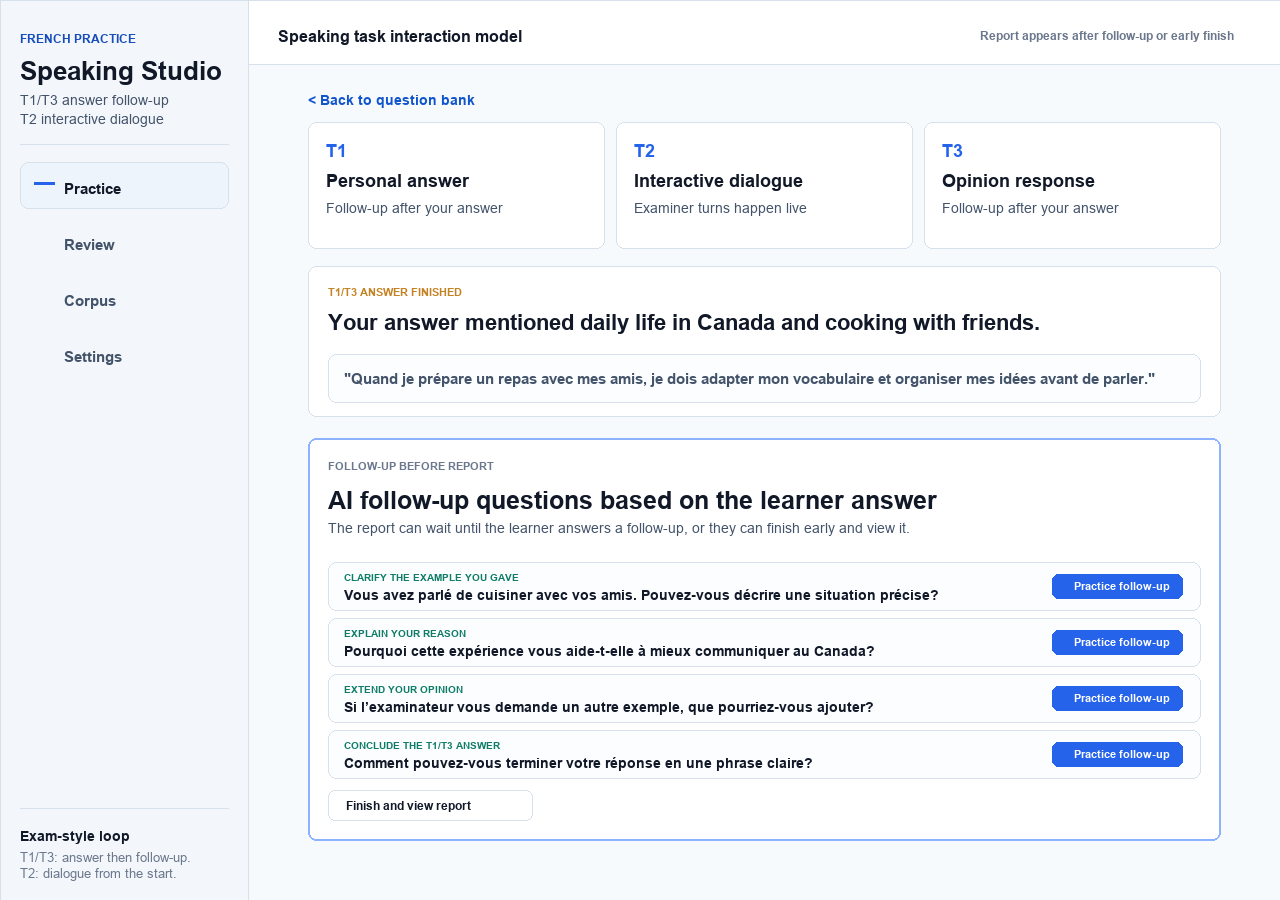
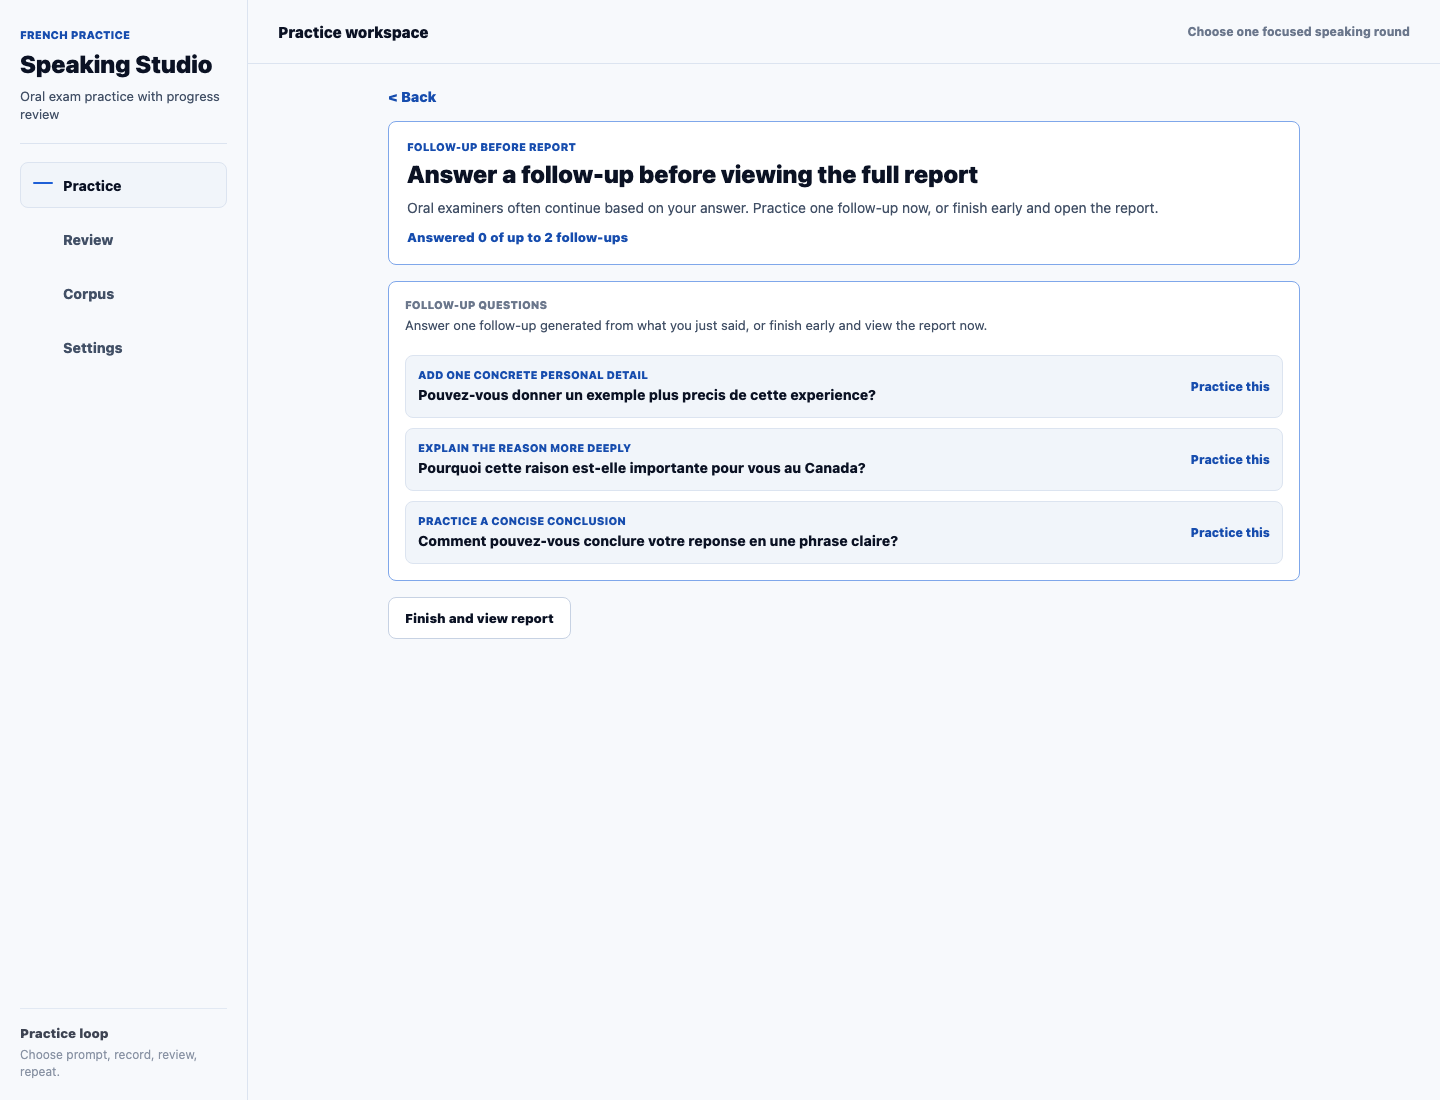
docs: show timed follow-up product flow

diff --git a/index.html b/index.html
@@ -165,6 +165,22 @@
             </div>
           </article>
           <article>
+            <img src="assets/follow-up-recording.png" alt="Real product screen showing a timed T1 follow-up answer with a 30 second limit" />
+            <div>
+              <span data-i18n="evidence.timedLabel">Timed follow-up</span>
+              <h3 data-i18n="evidence.timedTitle">Short follow-up answers keep the exam rhythm.</h3>
+              <p data-i18n="evidence.timedText">T1 follow-ups use 30 seconds and T3 follow-ups use 45 seconds, so practice stays close to real oral-exam pacing.</p>
+            </div>
+          </article>
+          <article>
+            <img src="assets/final-composite-report.png" alt="Real product screen showing the composite report after the follow-up gate" />
+            <div>
+              <span data-i18n="evidence.reportLabel">Composite report</span>
+              <h3 data-i18n="evidence.reportTitle">The report appears after the follow-up sequence.</h3>
+              <p data-i18n="evidence.reportText">The final report combines the main answer and practiced follow-ups, while still allowing optional extra follow-up practice.</p>
+            </div>
+          </article>
+          <article>
             <img src="assets/product-saved-examples.png" alt="Real product screen showing reusable speaking examples panel" />
             <div>
               <span data-i18n="evidence.savedLabel">Saved examples</span>
@@ -300,6 +316,12 @@
           "evidence.aiLabel": "AI interaction",
           "evidence.aiTitle": "T1/T3 follow-ups and T2 interactive dialogue.",
           "evidence.aiText": "After T1 or T3, the app can ask examiner-style follow-up questions based on the learner's own answer. T2 is already a multi-turn examiner dialogue.",
+          "evidence.timedLabel": "Timed follow-up",
+          "evidence.timedTitle": "Short follow-up answers keep the exam rhythm.",
+          "evidence.timedText": "T1 follow-ups use 30 seconds and T3 follow-ups use 45 seconds, so practice stays close to real oral-exam pacing.",
+          "evidence.reportLabel": "Composite report",
+          "evidence.reportTitle": "The report appears after the follow-up sequence.",
+          "evidence.reportText": "The final report combines the main answer and practiced follow-ups, while still allowing optional extra follow-up practice.",
           "evidence.savedLabel": "Saved examples",
           "evidence.savedTitle": "Reusable examples stay beside the speaking prompt.",
           "evidence.savedText": "Learners can save useful personal examples and adapt them to related topics later.",
@@ -372,6 +394,12 @@
           "evidence.aiLabel": "AI 互動",
           "evidence.aiTitle": "T1/T3 答完後追問；T2 是互動對話。",
           "evidence.aiText": "T1 或 T3 回答後，App 可以像考官一樣根據學習者剛剛的回答追問；T2 本身就是多輪考官式互動。",
+          "evidence.timedLabel": "限時追問",
+          "evidence.timedTitle": "短答追問更接近真實考試節奏。",
+          "evidence.timedText": "T1 追問限時 30 秒，T3 追問限時 45 秒，讓練習節奏更貼近口說考試。",
+          "evidence.reportLabel": "合成報告",
+          "evidence.reportTitle": "追問流程後才顯示完整報告。",
+          "evidence.reportText": "最後報告會合成主回答與已完成追問；使用者仍可在報告後繼續做額外追問練習。",
           "evidence.savedLabel": "保存例子",
           "evidence.savedTitle": "可重用例子會留在口說題旁邊。",
           "evidence.savedText": "學習者可以保存好用的個人例子，之後套用到相關主題。",
@@ -448,6 +476,12 @@
         "evidence.aiLabel": "AI 互动",
         "evidence.aiTitle": "T1/T3 答完后追问；T2 是互动对话。",
         "evidence.aiText": "T1 或 T3 回答后，App 可以像考官一样根据学习者刚刚的回答追问；T2 本身就是多轮考官式互动。",
+        "evidence.timedLabel": "限时追问",
+        "evidence.timedTitle": "短答追问更接近真实考试节奏。",
+        "evidence.timedText": "T1 追问限时 30 秒，T3 追问限时 45 秒，让练习节奏更贴近口语考试。",
+        "evidence.reportLabel": "合成报告",
+        "evidence.reportTitle": "追问流程后才显示完整报告。",
+        "evidence.reportText": "最后报告会合成主回答与已完成追问；用户仍可在报告后继续做额外追问练习。",
         "evidence.savedLabel": "保存例子",
         "evidence.savedTitle": "可复用例子会留在口语题旁边。",
         "evidence.savedText": "学习者可以保存好用的个人例子，之后套用到相关主题。",
@@ -522,6 +556,12 @@
         "evidence.aiLabel": "Interaction IA",
         "evidence.aiTitle": "Suivi T1/T3 et dialogue interactif T2.",
         "evidence.aiText": "Apres T1 ou T3, l'app peut poser des questions de suivi comme un examinateur, a partir de la reponse de l'apprenant. T2 est deja un dialogue multi-tour.",
+        "evidence.timedLabel": "Suivi minute",
+        "evidence.timedTitle": "Des reponses courtes gardent le rythme de l'examen.",
+        "evidence.timedText": "Les suivis T1 durent 30 secondes et les suivis T3 45 secondes, pour rester proches du rythme oral reel.",
+        "evidence.reportLabel": "Rapport composite",
+        "evidence.reportTitle": "Le rapport apparait apres la sequence de suivi.",
+        "evidence.reportText": "Le rapport final combine la reponse principale et les suivis pratiques, avec la possibilite de continuer des suivis optionnels.",
         "evidence.savedLabel": "Exemples sauvegardes",
         "evidence.savedTitle": "Les exemples reutilisables restent pres du sujet.",
         "evidence.savedText": "Les apprenants peuvent sauvegarder de bons exemples personnels et les adapter a des themes proches.",